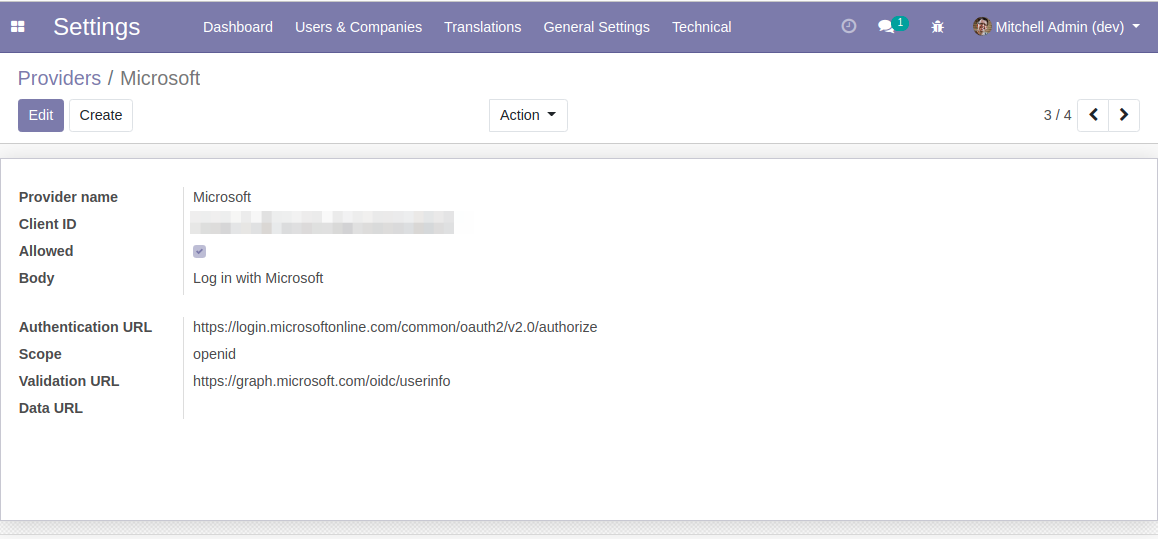
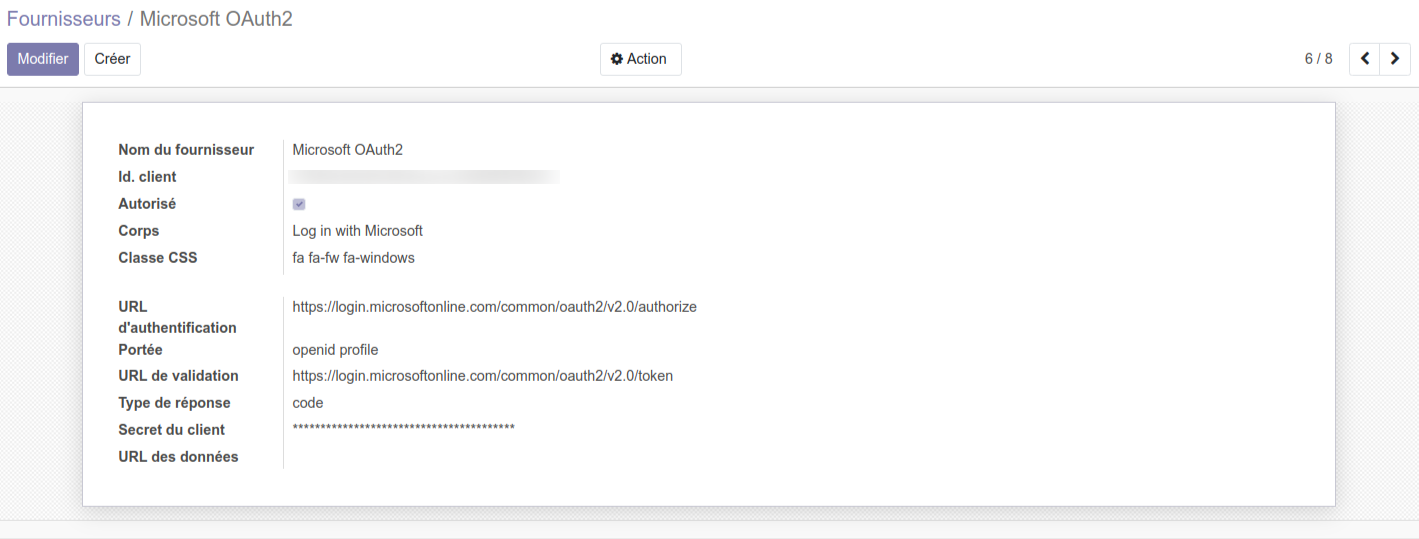
TA#48105 [ADD] module auth_oauth_microsoft

diff --git a/auth_oauth_microsoft/static/src/scss/auth_oauth.scss b/auth_oauth_microsoft/static/src/scss/auth_oauth.scss
@@ -1,0 +1,5 @@
+.o_auth_oauth_providers {
+  .fa-windows {
+    color: #327ed0;
+  }
+}

diff --git a/auth_oauth_microsoft/models/res_users.py b/auth_oauth_microsoft/models/res_users.py
@@ -1,38 +1,25 @@
-# © 2021 - today Numigi (tm) and all its contributors (https://bit.ly/numigiens)
+# © 2023 - Numigi (tm) and all its contributors (https://bit.ly/numigiens)
 # License LGPL-3.0 or later (http://www.gnu.org/licenses/lgpl).
 
+import logging
 import requests
+
 from odoo import api, models
+from odoo.exceptions import AccessDenied
+from odoo.http import request
+
+_logger = logging.getLogger(__name__)
+
+try:
+    import jwt
+except ImportError:
+    _logger.warning("The PyJWT python library is not installed, "
+                    "login with Microsoft OAuth2 won't be available.")
+    jwt = None
 
 
 class Users(models.Model):
-
     _inherit = "res.users"
-
-    @api.model
-    def _auth_oauth_rpc(self, endpoint, access_token):
-        if _is_microsoft_endpoint(endpoint):
-            return self._auth_oauth_rpc_microsoft(endpoint, access_token)
-        else:
-            return super()._auth_oauth_rpc(endpoint, access_token)
-
-    def _auth_oauth_rpc_microsoft(self, endpoint, access_token):
-        headers = {"Authorization": "Bearer {}".format(access_token)}
-        response = requests.get(endpoint, headers=headers)
-        return response.json()
-
-    @api.model
-    def _auth_oauth_validate(self, provider, access_token):
-        validation = super()._auth_oauth_validate(provider, access_token)
-
-        provider_obj = self.env["auth.oauth.provider"].browse(provider)
-        if _is_microsoft_endpoint(provider_obj.auth_endpoint):
-            email = validation.get("email") or validation["sub"]
-            validation["user_id"] = email
-
-            self._update_existing_microsoft_user(provider, email)
-
-        return validation
 
     def _update_existing_microsoft_user(self, provider, email):
         """Update an existing user that matches the provided microsoft email.
@@ -60,13 +47,87 @@ class Users(models.Model):
 
     def _find_microsoft_user(self, provider, email):
         user = self.search(
-            [("oauth_provider_id", "=", provider), ("oauth_uid", "=", email)], limit=1
+            [("oauth_provider_id", "=", provider), ("oauth_uid", "=", email)],
+            limit=1
         )
         if user:
             return user
-
         return self.search([("login", "=", email)], limit=1)
 
+    @api.model
+    def _auth_oauth_code_validate(self, provider, code):
+        """ requests access_token using provided code and returns
+            the validation data corresponding to the access token
+        """
 
-def _is_microsoft_endpoint(endpoint):
-    return "microsoft" in endpoint
+        oauth_provider = self.env['auth.oauth.provider'].browse(provider)
+        req_params = dict(
+            client_id=oauth_provider.client_id,
+            client_secret=oauth_provider.client_secret,
+            grant_type='authorization_code',
+            code=code,
+            redirect_uri=request.httprequest.url_root + 'auth_oauth/signin',
+        )
+        headers = {'Accept': 'application/json'}
+
+        token_info = requests.post(oauth_provider.validation_endpoint,
+                                   headers=headers, data=req_params).json()
+        if token_info.get("error"):
+            raise Exception(token_info['error'])
+
+        access_token = token_info.get('access_token')
+        validation = {
+            'access_token': access_token
+        }
+        if token_info.get('id_token'):
+            # Used in case of Microsoft's Azure AD API
+            # We can directly access basic info from 'id_token', without
+            # making another call to any data_endpoint
+            if not jwt:
+                _logger.warning("The PyJWT python library is missing, not able"
+                                " to login with Microsoft Account.")
+                raise AccessDenied()
+            data = jwt.decode(token_info['id_token'],
+                              options={"verify_signature": False})
+        else:
+            # For other providers, fetch data using data_endpoint
+            data = self._auth_oauth_rpc(oauth_provider.data_endpoint,
+                                        access_token)
+
+        validation.update(data)
+        return validation
+
+    @api.model
+    def auth_oauth(self, provider, params):
+        # Advice by Google (to avoid Confused Deputy Problem)
+        # if validation.audience != OUR_CLIENT_ID:
+        #   abort()
+        # else:
+        #   continue with the process
+        if params.get('code'):
+            # code grant flow, which will give code to retrieve access_token
+            validation = self._auth_oauth_code_validate(
+                provider, params['code']
+            )
+            access_token = validation.pop('access_token')
+            params['access_token'] = access_token
+        else:
+            # implicit flow, which directly gives access_token
+            access_token = params.get('access_token')
+            validation = self._auth_oauth_validate(provider, access_token)
+        # required check
+        if not validation.get('user_id'):
+            # Workaround for Microsoft as it do not send 'user_id'
+            email = validation.get('preferred_username')
+            if email:  # for Microsoft
+                validation['user_id'] = email
+                self._update_existing_microsoft_user(provider, email)
+            else:
+                raise AccessDenied()
+
+        # retrieve and sign in user
+        login = self._auth_oauth_signin(provider, validation, params)
+        if not login:
+            raise AccessDenied()
+        # return user credentials
+        return self.env.cr.dbname, login, access_token

diff --git a/auth_oauth_microsoft/controllers/oauth_login.py b/auth_oauth_microsoft/controllers/oauth_login.py
@@ -1,0 +1,30 @@
+# © 2023 Numigi (tm) and all its contributors (https://bit.ly/numigiens)
+# License LGPL-3.0 or later (http://www.gnu.org/licenses/lgpl).
+
+import json
+import werkzeug
+
+from odoo.http import request
+from odoo.addons.auth_oauth.controllers.main import OAuthLogin as OAuth
+
+
+class OAuthLogin(OAuth):
+    def list_providers(self):
+        try:
+            providers = request.env['auth.oauth.provider'].sudo().search_read(
+                [('enabled', '=', True)])
+        except Exception:
+            providers = []
+        for provider in providers:
+            return_url = request.httprequest.url_root + 'auth_oauth/signin'
+            state = self.get_state(provider)
+            params = dict(
+                response_type=provider['response_type'] or 'token',
+                client_id=provider['client_id'],
+                redirect_uri=return_url,
+                scope=provider['scope'],
+                state=json.dumps(state),
+            )
+            provider['auth_link'] = "%s?%s" % (
+                provider['auth_endpoint'], werkzeug.urls.url_encode(params))
+        return providers

diff --git a/auth_oauth_microsoft/__manifest__.py b/auth_oauth_microsoft/__manifest__.py
@@ -1,17 +1,20 @@
-# © 2021 - today Numigi (tm) and all its contributors (https://bit.ly/numigiens)
+# © 2023 - today Numigi (tm) and all its contributors (https://bit.ly/numigiens)
 # License LGPL-3.0 or later (http://www.gnu.org/licenses/lgpl).
 
 {
     "name": "Auth Oauth Microsoft",
-    "version": "1.1.0",
+    "version": "1.2.0",
     "author": "Numigi",
     "maintainer": "Numigi",
     "license": "LGPL-3",
     "category": "Other",
     "summary": "Allow to login with Microsoft",
+    "external_dependencies": {"python": ["PyJWT"]},
     "depends": ["auth_oauth"],
     "data": [
-        "data/auth_oauth_provider.xml"
+        "data/auth_oauth_provider.xml",
+        "views/auth_oauth_views.xml",
+        "views/auth_oauth_templates.xml",
     ],
     "installable": True,
 }

diff --git a/auth_oauth_microsoft/models/auth_oauth.py b/auth_oauth_microsoft/models/auth_oauth.py
@@ -1,0 +1,11 @@
+# © 2023 Numigi (tm) and all its contributors (https://bit.ly/numigiens)
+# License LGPL-3.0 or later (http://www.gnu.org/licenses/lgpl).
+
+from odoo import fields, models
+
+
+class AuthOAuthProvider(models.Model):
+    _inherit = 'auth.oauth.provider'
+
+    client_secret = fields.Char(string='Client Secret')
+    response_type = fields.Char(string='Response Type')

diff --git a/auth_oauth_microsoft/__init__.py b/auth_oauth_microsoft/__init__.py
@@ -1,4 +1,6 @@
-# © 2021 - today Numigi (tm) and all its contributors (https://bit.ly/numigiens)
+# © 2023 - Numigi (tm) and all its contributors (https://bit.ly/numigiens)
 # License LGPL-3.0 or later (http://www.gnu.org/licenses/lgpl).
 
 from . import models
+from . import controllers
+

diff --git a/auth_oauth_microsoft/models/__init__.py b/auth_oauth_microsoft/models/__init__.py
@@ -1,4 +1,5 @@
-# © 2021 - today Numigi (tm) and all its contributors (https://bit.ly/numigiens)
+# © 2023 - Numigi (tm) and all its contributors (https://bit.ly/numigiens)
 # License LGPL-3.0 or later (http://www.gnu.org/licenses/lgpl).
 
 from . import res_users
+from . import auth_oauth

diff --git a/auth_oauth_microsoft/controllers/__init__.py b/auth_oauth_microsoft/controllers/__init__.py
@@ -1,0 +1,4 @@
+# © 2023 Numigi (tm) and all its contributors (https://bit.ly/numigiens)
+# License LGPL-3.0 or later (http://www.gnu.org/licenses/lgpl).
+
+from . import oauth_login

diff --git a/mail_activity_not_deleted/tests/__init__.py b/mail_activity_not_deleted/tests/__init__.py
@@ -1,0 +1,2 @@
+
+from . import test_mail_activity

diff --git a/auth_oauth_microsoft/README.rst b/auth_oauth_microsoft/README.rst
@@ -6,7 +6,7 @@ This module adds compatibility between the Microsoft SSO and the vanilla Oauth f
 
 Context
 -------
-As of Odoo version 12.0, the Oauth feature is incompatible with Microsoft.
+As of Odoo version 14.0, the Oauth feature is incompatible with Microsoft.
 
 If you create an Oauth provider similarly to the predefined configurations for Google or Facebook,
 you will end up with errors when authentifying.
@@ -26,3 +26,7 @@ If you manually create a new provider with different parameters for Microsoft, i
 Contributors
 ------------
 * Numigi (tm) and all its contributors (https://bit.ly/numigiens)
+
+More information
+----------------
+* Meet us at https://bit.ly/numigi-com
